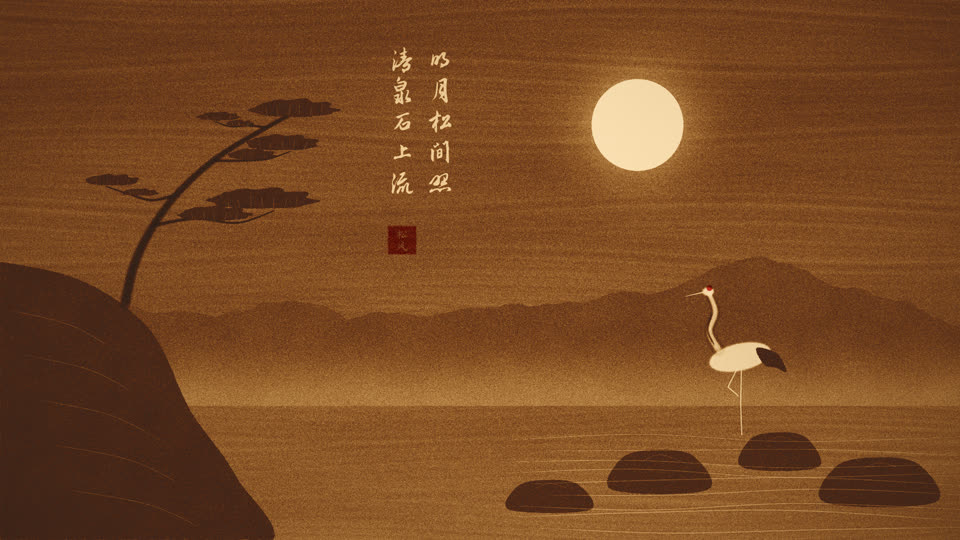
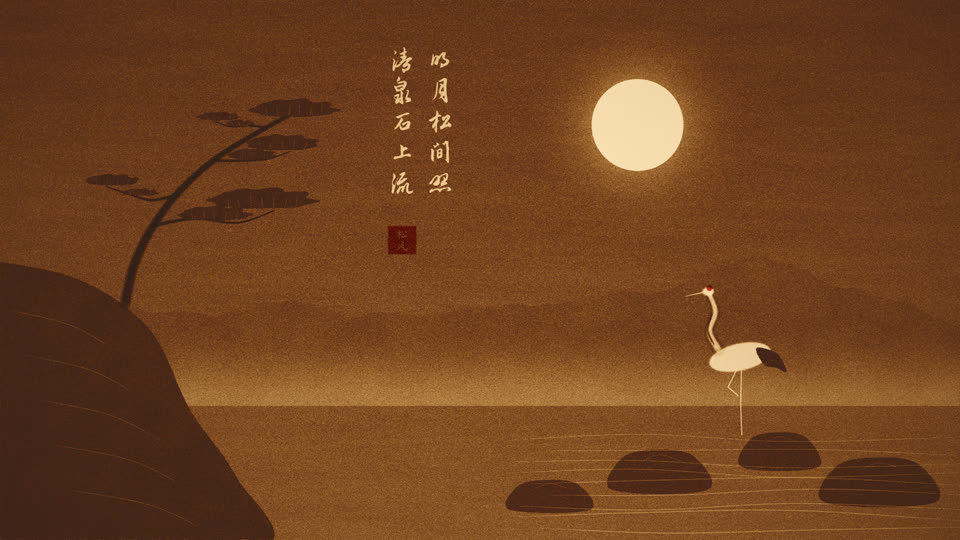
fix: lay a clean base layer between paintings
Base-layer palm passes used the finger-streak pattern to modulate how
much old sand they moved, so the previous painting survived in stripes
under the next one (e.g. pandas behind the vase in a time-lapse).
Covers now use the streaks only to texture the new layer, a firmer
palm edge and a 0.97 rate; the dissolving wash keeps its streaky look.
Residual contrast of an old picture drops from ~2.6% to ~0.6%.

Claude-Session: https://claude.ai/code/session_01GJr44sHpZbQoY3vsGB1eYS

Changed region(s): [[0.4688, 0.1481, 0.5312, 0.237], [0.3125, 0.237, 0.4062, 0.2667], [0.4375, 0.237, 0.4688, 0.2667]]

diff --git a/sandscroll/src/core/field.js b/sandscroll/src/core/field.js
@@ -122,9 +122,11 @@ export class SandField {
   }
 
   // Moves density toward a target (number or fn(x, y)) with rate k. (nx, ny) is the brush
-  // normal; `streak` (Float32Array, 1024 entries) modulates the rate across the palm so
-  // sweeping gestures leave finger streaks along the direction of motion.
-  relax(cx, cy, r, target, k, nx = 0, ny = 1, streak = null, streakPhase = 0, hard = 0.2) {
+  // normal; `streak` (Float32Array, 1024 entries) varies across the palm so sweeping gestures
+  // leave finger streaks along the direction of motion. In 'rate' mode the streaks modulate how
+  // much old sand is moved (a dissolving transition); in 'target' mode they only texture the new
+  // layer, so laying a fresh base leaves no stripes of the previous picture behind.
+  relax(cx, cy, r, target, k, nx = 0, ny = 1, streak = null, streakPhase = 0, hard = 0.2, streakMode = 'rate') {
     const { w, h, d } = this;
     const x0 = Math.max(0, Math.floor(cx - r));
     const x1 = Math.min(w - 1, Math.ceil(cx + r));
@@ -134,6 +136,7 @@ export class SandField {
     const r2 = r * r;
     const inv = 1 / r;
     const fn = typeof target === 'function';
+    const byTarget = streakMode === 'target';
     for (let y = y0; y <= y1; y++) {
       const dy = y + 0.5 - cy;
       const dy2 = dy * dy;
@@ -144,9 +147,13 @@ export class SandField {
         const q = dx * dx + dy2;
         if (q >= r2) continue;
         let a = k * falloff(Math.sqrt(q) * inv, hard);
-        if (streak) a *= streak[((dx * nx + dy * ny + streakPhase) | 0) & 1023];
+        let T = fn ? target(x, y) : target;
+        if (streak) {
+          const m = streak[((dx * nx + dy * ny + streakPhase) | 0) & 1023];
+          if (byTarget) T *= 0.88 + 0.12 * m;
+          else a *= m;
+        }
         const i = row + x;
-        const T = fn ? target(x, y) : target;
         d[i] += (T - d[i]) * a;
       }
     }

diff --git a/sandscroll/src/core/kit.js b/sandscroll/src/core/kit.js
@@ -7,7 +7,7 @@ import { Overlay, captionSprite, sealSprite, textSprite } from './overlay.js';
 // Reusable gestures shared by the scenes. All coordinates are virtual (1920x1080).
 
 // Palm passes across a horizontal band, alternating direction, moving density toward `target`.
-export function cover(stage, target, { rows = 6, y0 = 0, y1 = 1080, x0 = -120, x1 = 2040, width = 320, speed = 1700, rate = 0.8, streak = 1, wave = 16, phase = 0 } = {}) {
+export function cover(stage, target, { rows = 6, y0 = 0, y1 = 1080, x0 = -120, x1 = 2040, width = 320, speed = 1700, rate = 0.97, streak = 1, wave = 16, phase = 0 } = {}) {
   const acts = [];
   // Rows closer than half a palm apart so passes overlap without leaving light bands.
   rows = Math.max(rows, Math.ceil((y1 - y0) / (width * 0.45)));
@@ -16,7 +16,7 @@ export function cover(stage, target, { rows = 6, y0 = 0, y1 = 1080, x0 = -120, x
     const pts = [];
     for (let x = x0; x <= x1; x += 40) pts.push([x, y + wave * Math.sin(x / 270 + i * 1.9 + phase)]);
     if (i % 2) pts.reverse();
-    acts.push(palm(pts, { width, speed, target, rate, streak: stage.streaks[streak], rest: 0.06 }));
+    acts.push(palm(pts, { width, speed, target, rate, streak: stage.streaks[streak], streakMode: 'target', hard: 0.55, rest: 0.06 }));
   }
   return acts;
 }

diff --git a/sandscroll/src/scenes/rosegarden.js b/sandscroll/src/scenes/rosegarden.js
@@ -19,7 +19,7 @@ export default {
     const acts = [];
     const vx = 900;
     const base = 930;
-    acts.push(...K.cover(stage, stage.vgrad(0.34, 0.14, 0, 1080, 0.1, rng.float(0, 40)), { rows: 5, y0: -60, y1: 1140, rate: 0.85 }));
+    acts.push(...K.cover(stage, stage.vgrad(0.34, 0.14, 0, 1080, 0.1, rng.float(0, 40)), { rows: 5, y0: -60, y1: 1140 }));
     // Table edge and the vase's soft shadow.
     acts.push(K.reveal((st) => st.mask([[-10, base], [1930, base], [1930, 1090], [-10, 1090]], { feather: 2 }), { op: 'set', level: stage.streaky(0.62, 0.2, 0.002, 0.05), order: 'left', duration: 4 }));
     acts.push(K.reveal((st) => st.mask(ellipse(vx + 40, base + 8, 190, 16), { feather: 8 }), { op: 'add', amount: 0.35, order: 'out', duration: 1.5 }));

diff --git a/sandscroll/src/core/actions.js b/sandscroll/src/core/actions.js
@@ -44,6 +44,7 @@ export function stroke(kind, pts, opts = {}) {
     target = 0,
     rate = 0.6,
     streak = null,
+    streakMode = 'rate',
     hard = kind === 'pour' ? 0.25 : kind === 'carve' ? 0.45 : 0.15,
     taper = kind === 'relax' ? even : taperBoth,
     scatter = kind === 'pour' ? 0.35 : 0,
@@ -88,7 +89,7 @@ export function stroke(kind, pts, opts = {}) {
           f.carve(x, y, rr, k, rim, hard);
         } else {
           const k = 1 - Math.pow(1 - rate, spacing / (rr * c));
-          f.relax(x, y, rr, target, k, -ty, tx, streak, seed * 13, hard);
+          f.relax(x, y, rr, target, k, -ty, tx, streak, seed * 13, hard, streakMode);
         }
         hand = [x / stage.s, y / stage.s];
         if (m.length === 0) {

diff --git a/sandscroll/src/scenes/pandas.js b/sandscroll/src/scenes/pandas.js
@@ -22,7 +22,7 @@ export default {
   build(stage, rng) {
     const ground = 905;
     const acts = [];
-    acts.push(...K.cover(stage, stage.vgrad(0.28, 0.1, 0, 1080, 0.12, rng.float(0, 50)), { rows: 5, y0: -60, y1: 1140, rate: 0.85 }));
+    acts.push(...K.cover(stage, stage.vgrad(0.28, 0.1, 0, 1080, 0.12, rng.float(0, 50)), { rows: 5, y0: -60, y1: 1140 }));
     // Ground first, then the two pandas (the heroes), then the bamboo grove framing them.
     acts.push(K.reveal((st) => st.mask(groundPoly(ground), { feather: 2, rough: 0.3, roughScale: 0.1 }), { op: 'set', level: stage.streaky(0.75, 0.25, 0.003, 0.05), order: 'left', duration: 5 }));
     const u = rng.float(73, 78);

diff --git a/sandscroll/src/scenes/riverboat.js b/sandscroll/src/scenes/riverboat.js
@@ -20,7 +20,7 @@ export default {
     const off = rng.float(0, 100);
     const acts = [];
     const R = 700;
-    acts.push(...K.cover(stage, stage.vgrad(0.95, 0.55, 0, R, 0.12, off), { rows: 5, y0: -60, y1: R + 40, rate: 0.9 }));
+    acts.push(...K.cover(stage, stage.vgrad(0.95, 0.55, 0, R, 0.12, off), { rows: 5, y0: -60, y1: R + 40 }));
     // Snow-covered ranges: pale masses edged with dark rock lines.
     const back = ridge(n, -60, 1980, R - 10, 230, { offset: off, freq: 1 / 330, peaks: [[rng.float(500, 900), 120, 200]] });
     const front = ridge(n, 900, 2050, R + 4, 170, { offset: off + 40, freq: 1 / 260, peaks: [[1500, 80, 160]], taper: 0.25 });

diff --git a/sandscroll/src/scenes/title.js b/sandscroll/src/scenes/title.js
@@ -15,7 +15,7 @@ export default {
   seal: '沙卷',
   build(stage, rng) {
     const acts = [];
-    acts.push(...K.cover(stage, stage.vgrad(1.2, 0.95, 0, 1080, 0.14, rng.float(0, 50)), { rows: 5, y0: -60, y1: 1140, rate: 0.9 }));
+    acts.push(...K.cover(stage, stage.vgrad(1.2, 0.95, 0, 1080, 0.14, rng.float(0, 50)), { rows: 5, y0: -60, y1: 1140 }));
     // A single horizon line and a small rising moon frame the title.
     acts.push(K.carve(spline([[260, 700], [700, 694], [1220, 698], [1660, 692]], 10), { width: 4, strength: 0.65, speed: 520, rim: 0.3 }));
     acts.push(...K.moon(stage, 1510, 250, 40, { halo: 2.6, glow: 0.45, duration: 4 }));

diff --git a/sandscroll/src/scenes/greatwall.js b/sandscroll/src/scenes/greatwall.js
@@ -38,7 +38,7 @@ export default {
     }
 
     const acts = [];
-    acts.push(...K.cover(stage, sky, { rows: 5, y0: -60, y1: 700, rate: 0.9 }));
+    acts.push(...K.cover(stage, sky, { rows: 5, y0: -60, y1: 700 }));
     acts.push(...K.moon(stage, sunX, sunY, 62, { halo: 3.2, glow: 0.5, strength: 0.9, duration: 5 }));
     acts.push(L.range(stage, far, { level: 0.42, mist: 0.85, mistDepth: 150, duration: 8 }));
     acts.push(L.greatWall(stage, far, { x0: 60, x1: 1860, offset: 3, thick: 5, tooth: 4, level: 0.95, towers: towers.filter((_, i) => i % 2).map((x) => x + 40), towerW: 12, towerH: 11, duration: 6, walk: false }));

diff --git a/sandscroll/src/scenes/goldengate.js b/sandscroll/src/scenes/goldengate.js
@@ -28,7 +28,7 @@ export default {
     const water = stage.streaky(0.95, 0.22, 0.0015, 0.07, off + 9);
 
     const acts = [];
-    acts.push(...K.cover(stage, sky, { rows: 5, y0: -60, y1: W0 + 20, rate: 0.9 }));
+    acts.push(...K.cover(stage, sky, { rows: 5, y0: -60, y1: W0 + 20 }));
     const marin = ridge(n, 1350, 2100, W0 - 4, 150, { offset: off, freq: 1 / 300, peaks: [[1700, 70, 200]], taper: 0.25 });
     const city = ridge(n, -150, 520, W0 - 4, 70, { offset: off + 20, freq: 1 / 200, taper: 0.3 });
     acts.push(L.range(stage, marin, { level: 0.62, mist: 0.6, mistDepth: 90, order: 'right', duration: 6 }));

diff --git a/sandscroll/src/scenes/finale.js b/sandscroll/src/scenes/finale.js
@@ -23,7 +23,7 @@ export default {
     const mx = rng.float(900, 1020);
     const my = rng.float(150, 175);
     const acts = [];
-    acts.push(...K.cover(stage, stage.vgrad(1.9, 0.75, 0, H0, 0.1, off), { rows: 6, y0: -60, y1: H0 + 30, rate: 0.9 }));
+    acts.push(...K.cover(stage, stage.vgrad(1.9, 0.75, 0, H0, 0.1, off), { rows: 6, y0: -60, y1: H0 + 30 }));
     const sea = stage.streaky(1.3, 0.2, 0.0012, 0.08, off + 5);
     acts.push(
       K.reveal((st) => st.mask([[-10, H0], [1930, H0], [1930, 1090], [-10, 1090]], { feather: 1, rough: 0.2, roughScale: 0.2 }), {

diff --git a/sandscroll/src/scenes/pinecrane.js b/sandscroll/src/scenes/pinecrane.js
@@ -19,7 +19,7 @@ export default {
     const n = stage.noise;
     const off = rng.float(0, 100);
     const acts = [];
-    acts.push(...K.cover(stage, stage.vgrad(1.75, 1.05, 0, 1080, 0.1, off), { rows: 6, y0: -60, y1: 1140, rate: 0.9 }));
+    acts.push(...K.cover(stage, stage.vgrad(1.75, 1.05, 0, 1080, 0.1, off), { rows: 6, y0: -60, y1: 1140 }));
     const mx = rng.float(1180, 1300);
     acts.push(...K.moon(stage, mx, 250, 92, { halo: 2.6, glow: 0.5 }));
     const far = ridge(n, -60, 1980, 700, 170, { offset: off, freq: 1 / 360, peaks: [[1500, 90, 220]] });

diff --git a/sandscroll/src/scenes/bamboo.js b/sandscroll/src/scenes/bamboo.js
@@ -18,7 +18,7 @@ export default {
   build(stage, rng) {
     const acts = [];
     const ground = 930;
-    acts.push(...K.cover(stage, stage.vgrad(1.6, 1.0, 0, 1080, 0.12, rng.float(0, 60)), { rows: 6, y0: -60, y1: 1140, rate: 0.9 }));
+    acts.push(...K.cover(stage, stage.vgrad(1.6, 1.0, 0, 1080, 0.12, rng.float(0, 60)), { rows: 6, y0: -60, y1: 1140 }));
     const mx = rng.float(820, 1000);
     acts.push(...K.moon(stage, mx, 230, 110, { halo: 2.4, glow: 0.5 }));
     // Distant bamboo carved in light (moonlit), near bamboo poured dark.
